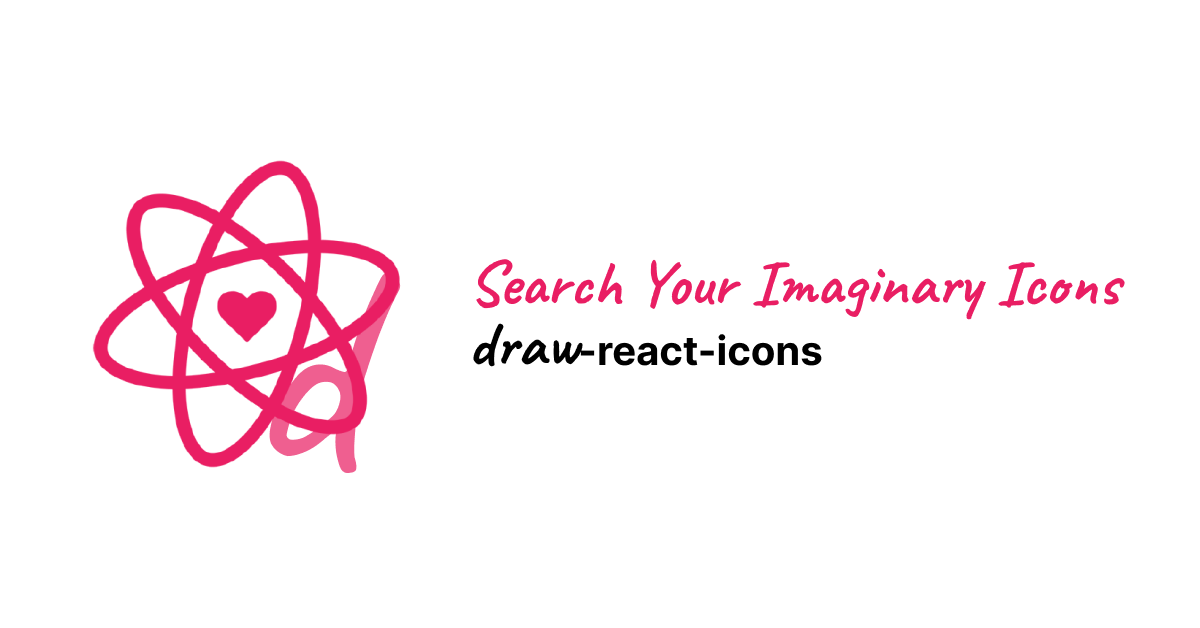
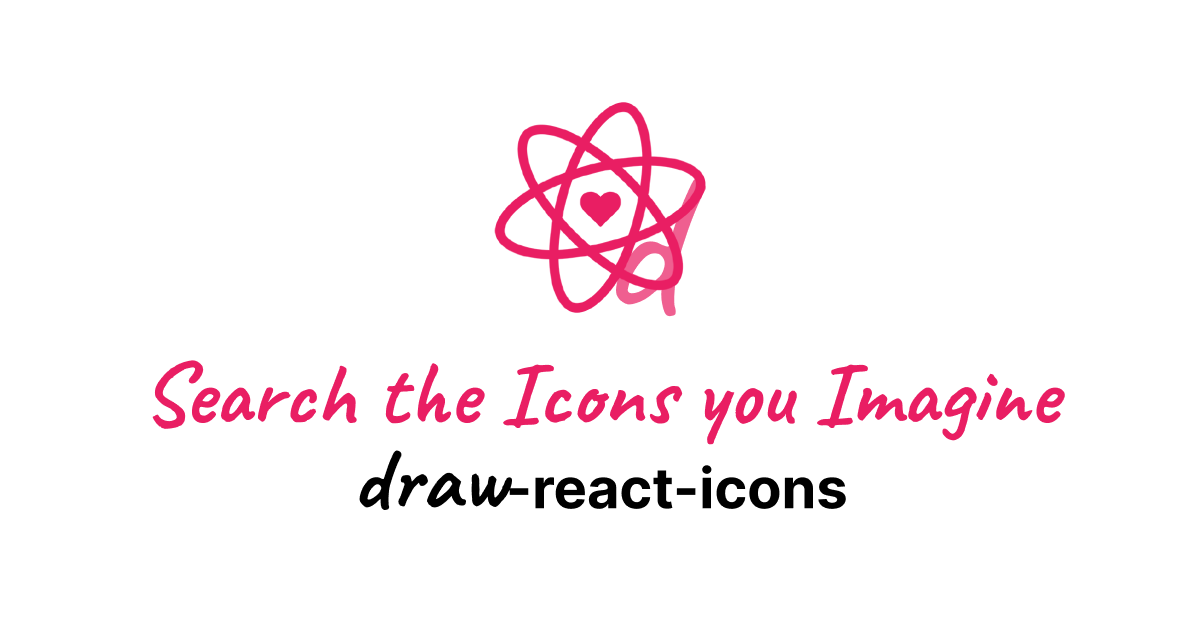
update web

Changed region(s): [[0.0617, 0.242, 0.8942, 0.8169], [0.4008, 0.1513, 0.9558, 0.5143]]

diff --git a/web/src/pages/index.tsx b/web/src/pages/index.tsx
@@ -1,6 +1,4 @@
 import React from 'react';
-import ReactIcon from '../components/ReactIcon';
-import { twMerge } from 'tailwind-merge';
 import { ReactSketchCanvas, ReactSketchCanvasRef } from 'react-sketch-canvas';
 import useDebounce from '../utils/useDebounce';
 import HCaptcha from '@hcaptcha/react-hcaptcha';
@@ -12,6 +10,7 @@ import { InferGetServerSidePropsType } from 'next';
 import { Collection } from '@/lib/api/types';
 import MainButton from '@/components/MainButton';
 import Results from '@/components/Results';
+import Header from '@/components/Header';
 
 export default function Home({
   collections,
@@ -63,43 +62,22 @@ export default function Home({
 
   if (AuthLoading === null) {
     return (
-      <main className="flex min-h-screen flex-col items-center p-24 py-10 gap-5">
-        <div key="title" className="flex flex-row items-center gap-4">
-          <ReactIcon />
-          <span className="text-2xl text-brand">
-            <span className={twMerge('text-4xl', 'font-[Caveat]')}>draw-</span>
-            react-icons
-          </span>
-        </div>
+      <Header>
         <LoadingWithTitle>Authenticating</LoadingWithTitle>
-      </main>
+      </Header>
     );
   }
 
   if (auth?.isAuth === null) {
     return (
-      <main className="flex min-h-screen flex-col items-center p-24 py-10 gap-5">
-        <div key="title" className="flex flex-row items-center gap-4">
-          <ReactIcon />
-          <span className="text-2xl text-brand">
-            <span className={twMerge('text-4xl', 'font-[Caveat]')}>draw-</span>
-            react-icons
-          </span>
-        </div>
+      <Header>
         <LoadingWithTitle>Initializing Application</LoadingWithTitle>
-      </main>
+      </Header>
     );
   }
 
   return (
-    <main className="flex min-h-screen flex-col items-center p-24 py-10 gap-5">
-      <div key="title" className="flex flex-row items-center gap-4">
-        <ReactIcon />
-        <span className="text-2xl text-brand">
-          <span className={twMerge('text-4xl', 'font-[Caveat]')}>draw-</span>
-          react-icons
-        </span>
-      </div>
+    <Header className="gap-4">
       <div className="relative">
         {!auth?.isAuth && (
           <div className="absolute w-full h-full backdrop-blur-sm bg-white/50 z-10 items-center justify-center flex flex-col space-y-2">
@@ -130,7 +108,7 @@ export default function Home({
           />
           <div className="flex flex-col items-center space-y-2">
             <p>Available Methods:</p>
-            <div>
+            <div className="flex flex-wrap gap-2 justify-center items-center">
               {collections.map((v) => {
                 return (
                   <MainButton
@@ -158,7 +136,7 @@ export default function Home({
           collectionName={debounceCollection || ''}
         />
       </div>
-    </main>
+    </Header>
   );
 }
 

diff --git a/web/src/components/Header.tsx b/web/src/components/Header.tsx
@@ -1,0 +1,73 @@
+import cn from '@/lib/cn';
+import ReactIcon from './ReactIcon';
+
+function Sponsor() {
+  return (
+    <div className="flex flex-col text-center space-y-4">
+      <p className="text-sm font-bold">This application is powered by</p>
+      <div className="grid grid-flow-col gap-4 text-xs">
+        <div className="flex flex-col justify-between items-center">
+          <img
+            className="h-5 object-cover w-min"
+            src="/qdrant.png"
+            alt="qdrant"
+          />
+          <p>For easy vector DB APIs</p>
+        </div>
+        <div className="flex flex-col justify-between items-center">
+          <img
+            className="h-5 object-cover w-min"
+            src="/vercel.png"
+            alt="vercel"
+          />
+          <p>For free frontend serving</p>
+        </div>
+        <div className="flex flex-col justify-between items-center">
+          <img
+            className="h-5 object-cover w-min"
+            src="/idcloudhost.png"
+            alt="idcloudhost"
+          />
+          <p>For cheap python backend and vector DB hosting</p>
+          <p>(reach me out to help me find free python hosting)</p>
+        </div>
+      </div>
+    </div>
+  );
+}
+
+export default function Header({
+  children,
+  className,
+}: {
+  children: React.ReactNode;
+  className?: string;
+}) {
+  return (
+    <main className="flex min-h-screen flex-col items-center px-4 py-10 gap-4">
+      <div
+        key="title"
+        className="flex flex-row items-center justify-center gap-4"
+      >
+        <ReactIcon />
+        <div>
+          <span className="text-xl text-brand">
+            <span className={cn('text-4xl', 'font-[Caveat]')}>draw-</span>
+            react-icons
+          </span>
+          <p className="text-sm">Search the Icons you Imagine</p>
+        </div>
+      </div>
+      <div>
+        <a href="https://github.com/kaenova/draw-react-icons">
+          <img
+            src="https://img.shields.io/badge/github-%23121011.svg?style=for-the-badge&logo=github&logoColor=white"
+            alt="github"
+          />
+        </a>
+      </div>
+      <div className={cn('flex flex-col max-w-4xl', className)}>{children}</div>
+      <Sponsor />
+    </main>
+  );
+}

diff --git a/web/src/components/Results.tsx b/web/src/components/Results.tsx
@@ -11,19 +11,22 @@ import IconLoading from './IconLoading';
 function IconComponent({ icon: Icon, name }) {
   function copyClipboard() {
     try {
-      navigator.clipboard.writeText(name)
-      toast.success("Icon name copied to clipboard")
+      navigator.clipboard.writeText(name);
+      toast.success('Icon name copied to clipboard');
     } catch (e) {
-      toast.error("Failed to copy to clipboard")
+      toast.error('Failed to copy to clipboard');
     }
   }
 
   return (
-    <button onClick={copyClipboard} className="bg-brand/20 rounded-md p-2 flex flex-col items-center hover:bg-brand/10">
-      <div className='bg-white rounded-md p-1'>
-      <Icon size={30} />
+    <button
+      onClick={copyClipboard}
+      className="bg-brand/20 rounded-md p-2 flex flex-col items-center hover:bg-brand/10"
+    >
+      <div className="bg-white rounded-md p-1">
+        <Icon size={30} />
       </div>
-      <p className='font-bold text-sm tracking-wide'>{name}</p>
+      <p className="font-bold text-sm tracking-wide">{name}</p>
     </button>
   );
 }
@@ -69,7 +72,7 @@ export default function Results({
 
   if (!base64Image || !collectionName) {
     return (
-      <div>
+      <div className="text-center">
         <p>Please draw and choose the available methods</p>
       </div>
     );
@@ -94,7 +97,7 @@ export default function Results({
       });
       setIcons(res.data);
     } catch (e) {
-      toast.error('Failed to fetcFh related icon');
+      toast.error('Failed to fetch related icon');
       setIcons('err');
     }
   }
@@ -117,7 +120,7 @@ export default function Results({
   }
 
   if (Icons == 'err') {
-    return <div>Error, please try again</div>;
+    return <div className="text-center">Error, please try again</div>;
   }
 
   const iconNames = Icons.map((v) => v.iconName);

diff --git a/web/src/pages/_app.tsx b/web/src/pages/_app.tsx
@@ -9,11 +9,11 @@ export default function App({ Component, pageProps }: AppProps) {
   return (
     <AuthProvider>
       <NextSeo
-        title="Search Your Imaginary Icons - Draw React Icons"
+        title="Search the Icons you Imagine - Draw React Icons"
         description="Search your most wanted icons with your imagination using Draw React Icons"
         openGraph={{
-          url: 'https://www.url.ie/a',
-          title: 'Search Your Imaginary Icons - Draw React Icons',
+          url: 'https://draw-react-icons.kaenova.my.id',
+          title: 'Search the Icons you Imagine - Draw React Icons',
           description:
             'Search your most wanted icons with your imagination using Draw React Icons',
           images: [{ url: '/thumb.png' }],
